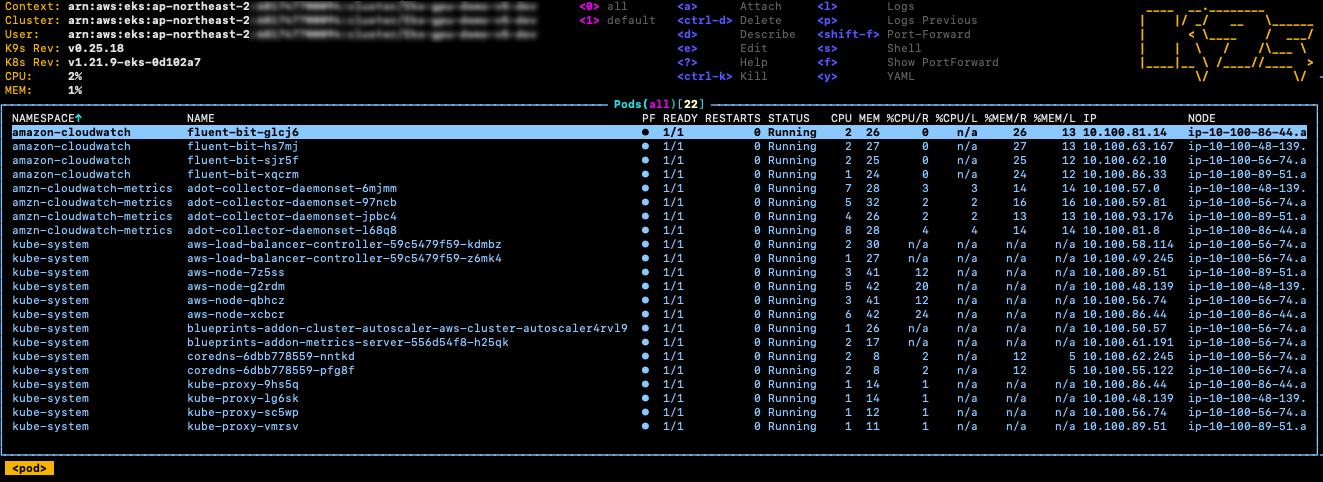
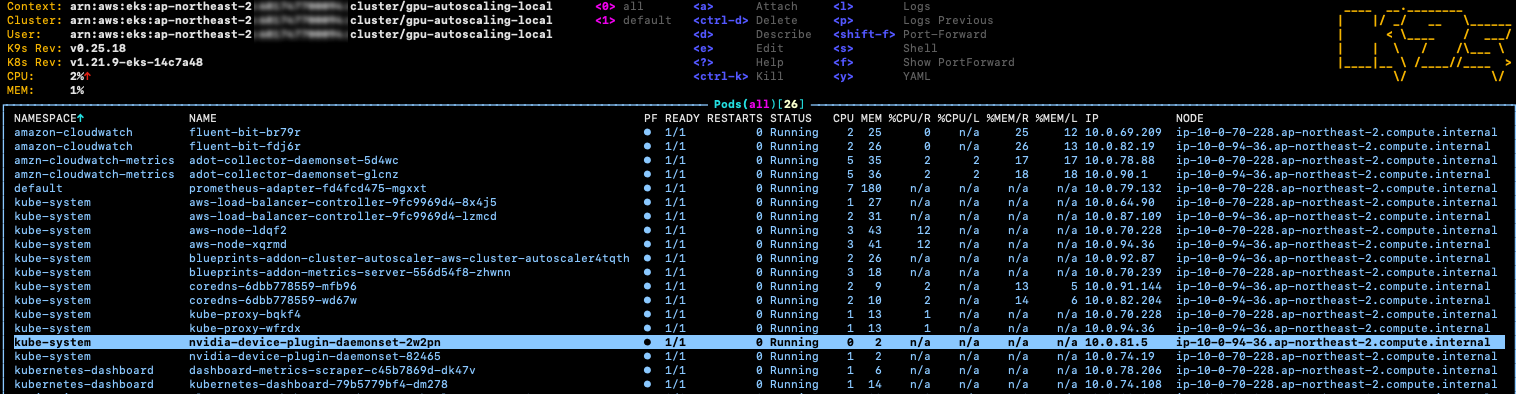
.

diff --git a/cdk/README.md b/cdk/README.md
@@ -25,7 +25,7 @@ Use the `cdk` command-line toolkit to interact with your project:
 |-------------------------------|---------|
 | VPC                           | 3m      |
 | EKS cluster                   | 21m  (38 Stacks)   |
-| Total                         | 24m     | 
+| Total                         | 24m     |
 
 ## Deploy
 
@@ -47,6 +47,17 @@ cdk deploy
 
 ### Step 2: EKS cluster and add-on with Blueprints
 
+| Instance Type | GPU | vCPU | RAM(GiB) |
+|---------------|-----|------|----------|
+| g4dn.xlarge   | 1   | 4    | 16       |
+| g4dn.2xlarge  | 1   | 8    | 32       |
+| g4dn.4xlarge  | 1   | 16   | 64       |
+| g4dn.8xlarge  | 1   | 32   | 128      |
+| g4dn.16xlarge | 1   | 64   | 256      |
+| p2.xlarge     | 1   | 4    | 61       |
+| p2.8xlarge    | 8   | 32   | 488      |
+| p2.16xlarge   | 16  | 64   | 732      |
+
 2 CDK stacks will be created gpu-autoscaling-local and `gpu-autoscaling-local/gpu-autoscaling-local`, and you need to deploy the `gpu-autoscaling-local/gpu-autoscaling-local`.
 
 ```bash
@@ -63,19 +74,28 @@ Cluster Name: [eks-blueprints/lib/cluster-config.ts](./eks-blueprints/lib/cluste
 
 ```bash
 Outputs:
-eks-gpu-autoscaling.Cluster = eks-gpu-autoscaling
-eks-gpu-autoscaling.ClusterArn = arn:aws:eks:us-east-1:123456789012:cluster/eks-gpu-autoscaling
-eks-gpu-autoscaling.ClusterCertificateAuthorityData = xxxxxxxx
-eks-gpu-autoscaling.ClusterEncryptionConfigKeyArn = 
-eks-gpu-autoscaling.ClusterEndpoint = https://123456789012.gr7.us-east-1.eks.amazonaws.com
-eks-gpu-autoscaling.ClusterName = eks-gpu-autoscaling
-eks-gpu-autoscaling.ClusterSecurityGroupId = sg-0123456789abc
-eks-gpu-autoscaling.VPC = vpc-0123456789abc
-eks-gpu-autoscaling.eksclusterConfigCommand515C0544 = aws eks update-kubeconfig --name eks-gpu-autoscaling --region us-east-1 --role-arn arn:aws:iam::123456789012:role/eks-gpu-autoscaling-iamrole10180D71-D83FQPH1BRW3
-eks-gpu-autoscaling.eksclusterGetTokenCommand3C33A2A5 = aws eks get-token --cluster-name eks-gpu-autoscaling --region us-east-1 --role-arn arn:aws:iam::123456789012:role/eks-gpu-autoscaling-iamrole10180D71-D83FQPH1BRW3
+eks-gpu-autoscaling-local.Cluster = eks-gpu-autoscaling-local
+eks-gpu-autoscaling-local.ClusterArn = arn:aws:eks:us-east-1:123456789012:cluster/eks-gpu-autoscaling-local
+eks-gpu-autoscaling-local.ClusterCertificateAuthorityData = xxxxxxxx
+eks-gpu-autoscaling-local.ClusterEncryptionConfigKeyArn = 
+eks-gpu-autoscaling-local.ClusterEndpoint = https://123456789012.gr7.us-east-1.eks.amazonaws.com
+eks-gpu-autoscaling-local.ClusterName = eks-gpu-autoscaling-local
+eks-gpu-autoscaling-local.ClusterSecurityGroupId = sg-0123456789abc
+eks-gpu-autoscaling-local.VPC = vpc-0123456789abc
+eks-gpu-autoscaling-local.eksclusterConfigCommand515C0544 = aws eks update-kubeconfig --name eks-gpu-autoscaling-local --region us-east-1 --role-arn arn:aws:iam::123456789012:role/eks-gpu-autoscaling-local-iamrole10180D71-D83FQPH1BRW3
+eks-gpu-autoscaling-local.eksclusterGetTokenCommand3C33A2A5 = aws eks get-token --cluster-name eks-gpu-autoscaling-local --region us-east-1 --role-arn arn:aws:iam::123456789012:role/eks-gpu-autoscaling-local-iamrole10180D71-D83FQPH1BRW3
 ```
 
-Update the `accelerator=nvidia-gpu` lebel for GPU node group:
+```bash
+# [optional] create iamidentitymapping to access to K8s cluster on AWS webconsole
+ACCOUNT_ID=$(aws sts get-caller-identity --query Account --output text)
+REGION=$(aws configure get default.region)
+eksctl create iamidentitymapping --cluster <cluster-name> --arn arn:aws:iam::${ACCOUNT_ID}:role/<role-name> --group system:masters --username admin --region ${REGION}
+```
+
+### Step 3: Label for GPU node group
+
+Update the `accelerator=nvidia-gpu` label for GPU node group:
 
 ```bash
 aws eks update-nodegroup-config --cluster-name gpu-autoscaling-local --nodegroup-name gpu-ng --labels addOrUpdateLabels={accelerator=nvidia-gpu}
@@ -99,21 +119,17 @@ aws eks update-nodegroup-config --cluster-name gpu-autoscaling-local --nodegroup
 }
 ```
 
-Pods:
+### Step 4: Install NVIDIA Device Plugin
 
-![K9s Pod](../screenshots/eks-bp-pod.png?raw=true)
+https://github.com/NVIDIA/k8s-device-plugin
 
-Services:
-
-![K9s Service](../screenshots/eks-bp-service.png?raw=true)
+Enable GPU support by deploying the following Daemonset:
 
 ```bash
-ACCOUNT_ID=$(aws sts get-caller-identity --query Account --output text)
-REGION=$(aws configure get default.region)
-eksctl create iamidentitymapping --cluster <cluster-name> --arn arn:aws:iam::${ACCOUNT_ID}:role/<role-name> --group system:masters --username admin --region ${REGION}
+kubectl create -f https://raw.githubusercontent.com/NVIDIA/k8s-device-plugin/v0.11.0/nvidia-device-plugin.yml
 ```
 
-### Step 3: Kubernetes Dashboard
+### Step 5: Kubernetes Dashboard
 
 ```bash
 kubectl apply -f https://raw.githubusercontent.com/kubernetes/dashboard/v2.5.1/aio/deploy/recommended.yaml
@@ -128,6 +144,16 @@ kubectl proxy for [Dashboard Login](http://localhost:8001/api/v1/namespaces/kube
 ```bash
 kubectl proxy
 ```
+
+### Pods in Cluster
+
+Pods:
+
+![K9s Pod](../screenshots/eks-bp-pod.png?raw=true)
+
+Services:
+
+![K9s Service](../screenshots/eks-bp-service.png?raw=true)
 
 ## Destroy
 

diff --git a/ref-eksctl/README.md b/ref-eksctl/README.md
@@ -20,20 +20,20 @@ It will taks account 23 minutes: Cluster 13m, Manged Node Group 10m. GPU instanc
 2022-04-29 13:34:58 [ℹ]  nodegroup "gpu-ng" will use "" [AmazonLinux2/1.20]
 2022-04-29 13:34:58 [ℹ]  2 existing nodegroup(s) (cpu-ng,gpu-ng) will be excluded
 2022-04-29 13:34:58 [ℹ]  1 nodegroup (gpu-ng) was included (based on the include/exclude rules)
-2022-04-29 13:34:58 [ℹ]  will create a CloudFormation stack for each of 1 managed nodegroups in cluster "gpu-demo"
+2022-04-29 13:34:58 [ℹ]  will create a CloudFormation stack for each of 1 managed nodegroups in cluster "gpu-autoscaling-local"
 2022-04-29 13:34:58 [ℹ]  
 2 sequential tasks: { fix cluster compatibility, 1 task: { 1 task: { create managed nodegroup "gpu-ng" } } 
 }
 2022-04-29 13:34:58 [ℹ]  checking cluster stack for missing resources
 2022-04-29 13:34:59 [ℹ]  cluster stack has all required resources
-2022-04-29 13:34:59 [ℹ]  building managed nodegroup stack "eksctl-gpu-demo-nodegroup-gpu-ng"
-2022-04-29 13:34:59 [ℹ]  deploying stack "eksctl-gpu-demo-nodegroup-gpu-ng"
-2022-04-29 13:34:59 [ℹ]  waiting for CloudFormation stack "eksctl-gpu-demo-nodegroup-gpu-ng"
+2022-04-29 13:34:59 [ℹ]  building managed nodegroup stack "eksctl-gpu-autoscaling-local-nodegroup-gpu-ng"
+2022-04-29 13:34:59 [ℹ]  deploying stack "eksctl-gpu-autoscaling-local-nodegroup-gpu-ng"
+2022-04-29 13:34:59 [ℹ]  waiting for CloudFormation stack "eksctl-gpu-autoscaling-local-nodegroup-gpu-ng"
 2022-04-29 14:02:29 [ℹ]  1 task: { install Nvidia device plugin }
 2022-04-29 14:02:31 [ℹ]  replaced "kube-system:DaemonSet.apps/nvidia-device-plugin-daemonset"
 2022-04-29 14:02:31 [ℹ]  as you are using the EKS-Optimized Accelerated AMI with a GPU-enabled instance type, the Nvidia Kubernetes device plugin was automatically installed.
         to skip installing it, use --install-nvidia-plugin=false.
-2022-04-29 14:02:31 [✔]  created 0 nodegroup(s) in cluster "gpu-demo"
+2022-04-29 14:02:31 [✔]  created 0 nodegroup(s) in cluster "gpu-autoscaling-local"
 ```
 
 ---
@@ -77,7 +77,7 @@ kubectl apply -f cluster-autoscaler-autodiscover.yaml
 ```
 
 ```bash
-# 로그 확인
+# logs for cluster-autoscaler
 kubectl logs -n kube-system  -f deployment/cluster-autoscaler
 ```
 

diff --git a/README.md b/README.md
@@ -449,7 +449,6 @@ Events:
 ```
 
 ```bash
-kubectl get events -w
 kubectl describe deploy gpu-api
 
 kubectl describe apiservices v1beta1.metrics.k8s.io
@@ -483,3 +482,4 @@ helm uninstall kube-prometheus-stack -n monitoring
 
 # Trouble Shooting
 
+You can check event logs with `kubectl get events -w` command.
